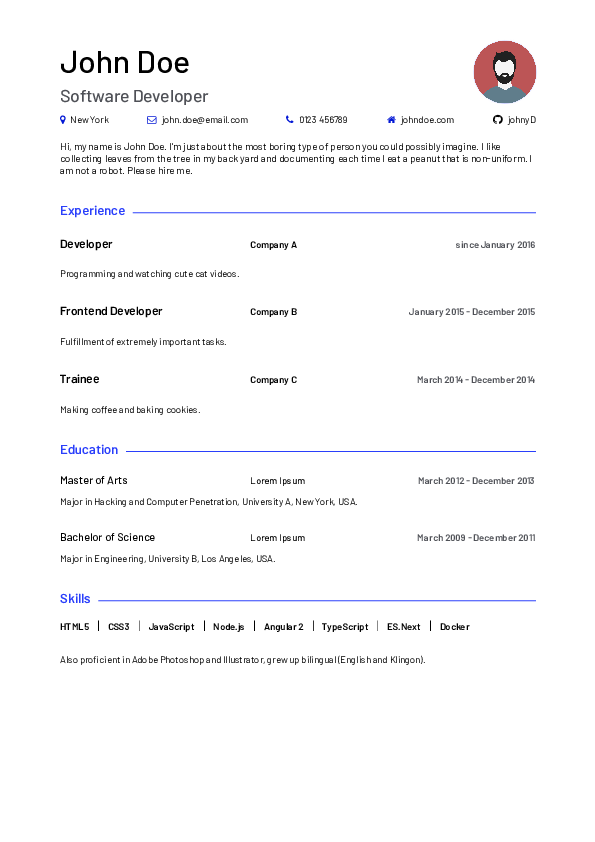
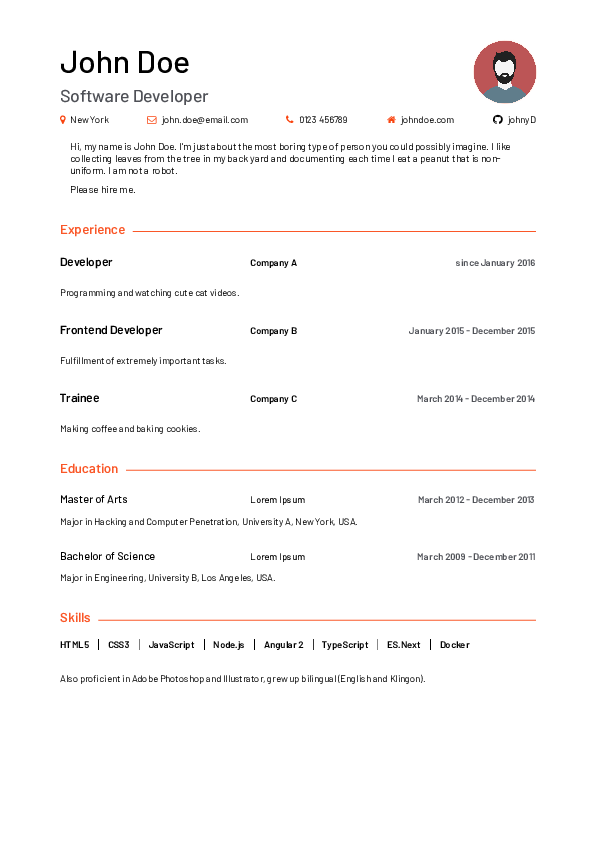
Change accent color to brick orange

diff --git a/src/resumes/marshall.vue b/src/resumes/marshall.vue
@@ -77,7 +77,7 @@ export default Vue.component(name, getVueOptions(name));
 <!-- Add "scoped" attribute to limit CSS to this component only -->
 <style lang="less" scoped>
 
-@flavor-color: #2a3ffb;
+@accent-color: #fa5728;
 @off-black: #4f5157;
 
 #page-container {
@@ -120,7 +120,7 @@ h1, h2, p {
 
         border-radius: 50%; // makes the photo rounded
         /* padding-bottom: 10px; */ // looks eggy but cool!
-        box-shadow: 0 0 2px @flavor-color; // adds a subtle border around the photo
+        box-shadow: 0 0 2px @accent-color; // adds a subtle border around the photo
         /* image-rendering: pixelated; */ // fix blurry downscaled pictures on Chrome
     }
 }
@@ -138,7 +138,7 @@ h1, h2, p {
     }
     i {
         margin-right: 0.5em; // space after each icon
-        color: darken(@flavor-color, 15%);
+        color: darken(@accent-color, 5%);
     }
     .fa-github {
         color: black;
@@ -161,7 +161,7 @@ h1, h2, p {
 section > header {
     overflow: hidden;
     white-space: nowrap;
-    color: @flavor-color;
+    color: @accent-color;
     h2 {
         display: inline-block;
         font-size: 1.375em;
